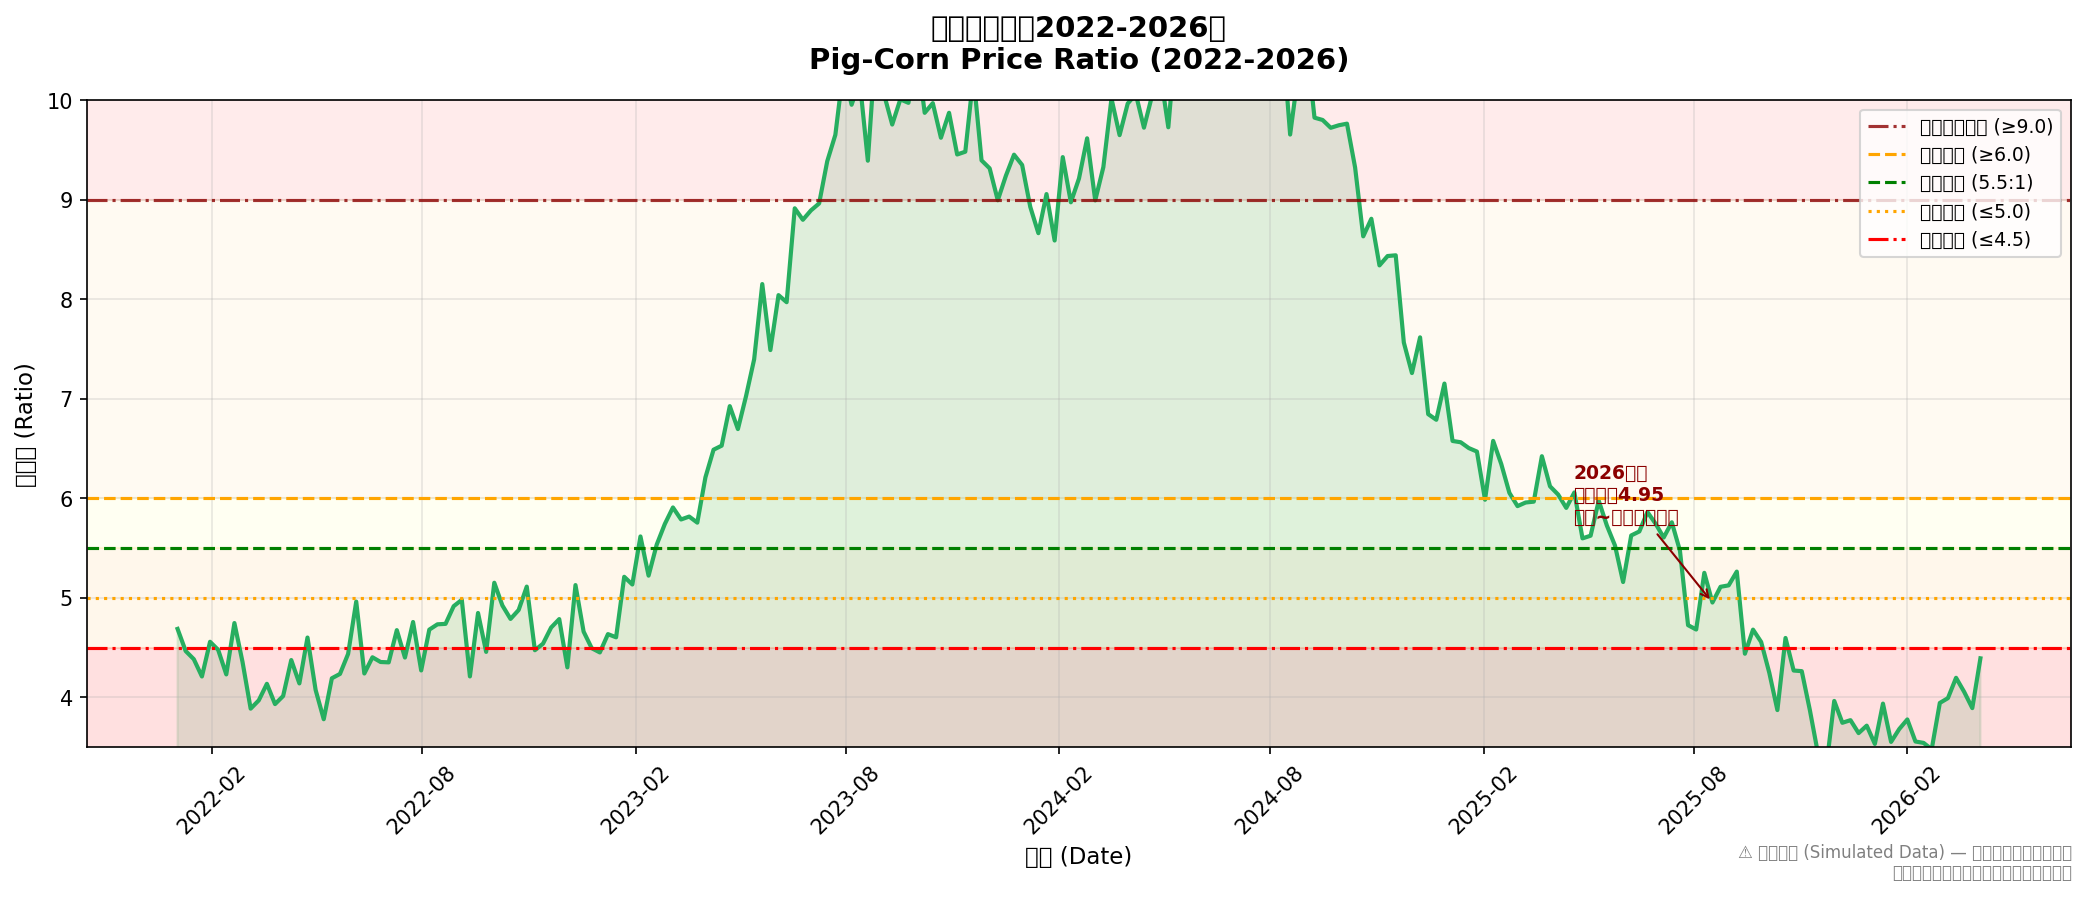
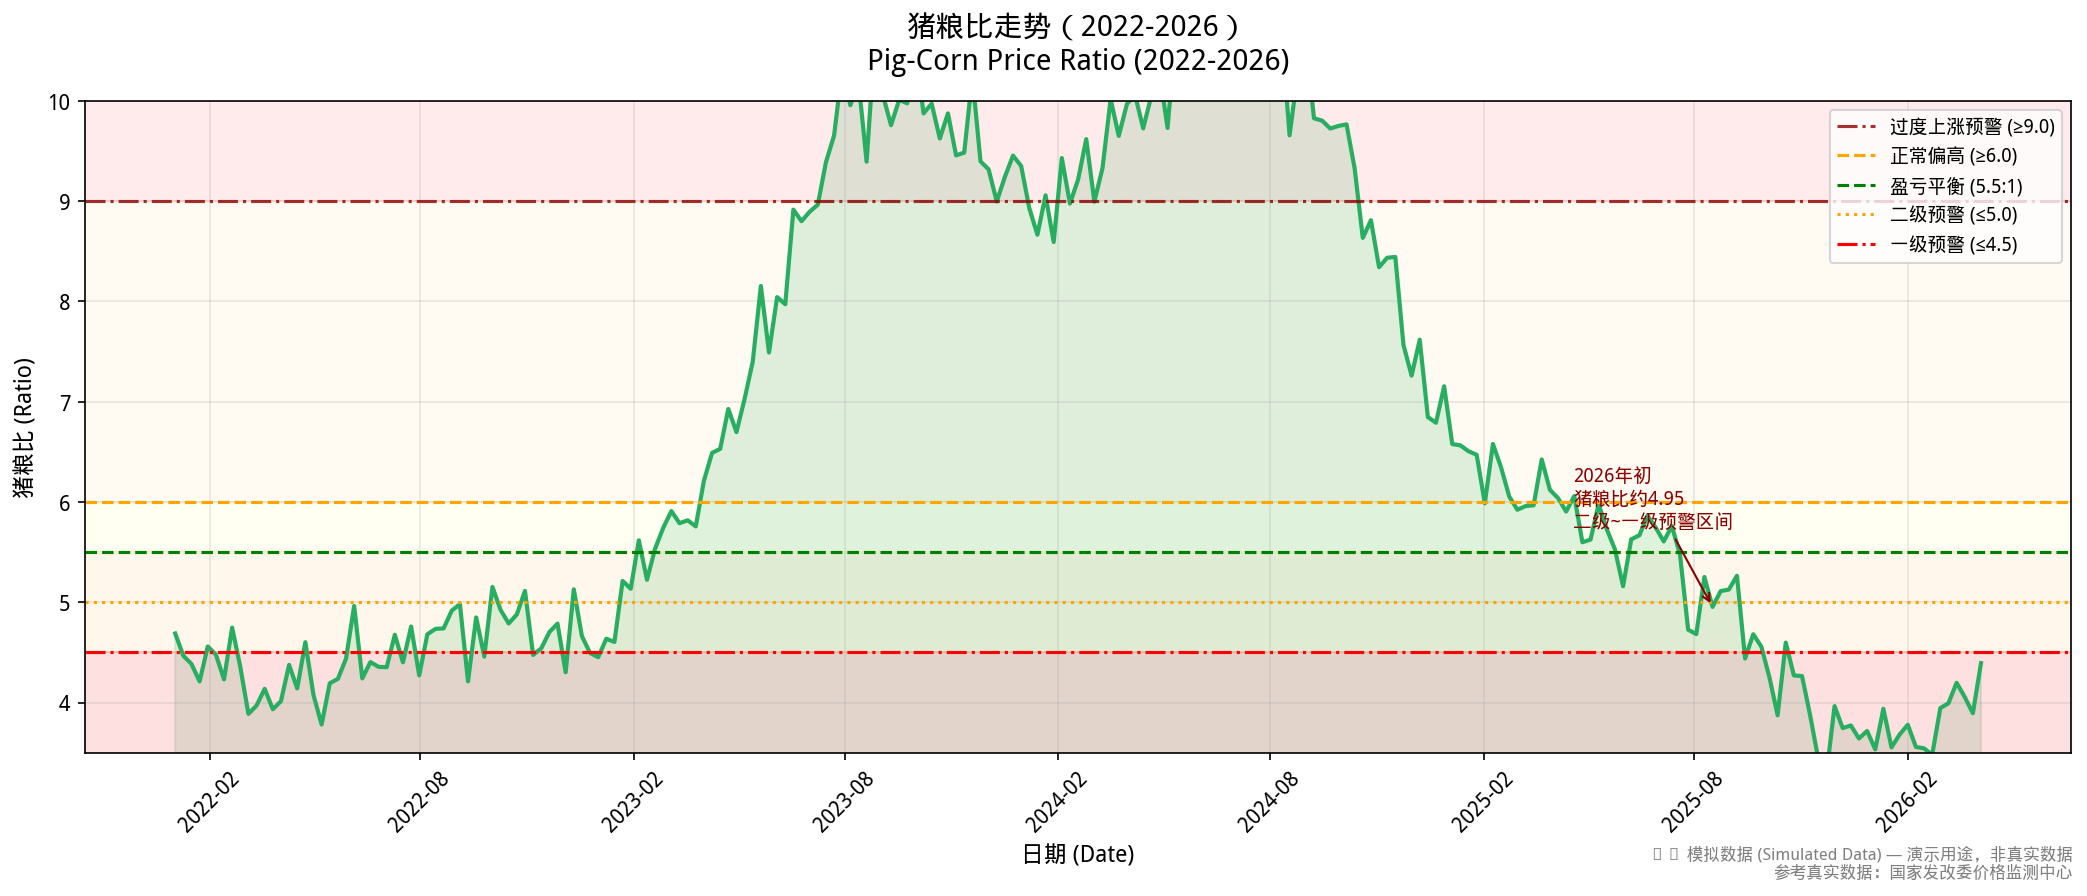
auto: 2026-04-06 21:30

diff --git a/research/05-量化投资/pig-cycle-demo.py b/research/05-量化投资/pig-cycle-demo.py
@@ -34,15 +34,12 @@ from datetime import datetime, timedelta
 OUTPUT_DIR = "/root/.openclaw/workspace/shared/results/05-量化投资/demo"
 os.makedirs(OUTPUT_DIR, exist_ok=True)
 
-# 中文字体设置（避免中文乱码）
-from matplotlib.font_manager import FontProperties
 import os
 
 # 中文字体配置
-_ZH_FONT_PATH = '/usr/share/fonts/truetype/wqy/wqy-microhei.ttc'
-_ZH_FONT = FontProperties(fname=_ZH_FONT_PATH) if os.path.exists(_ZH_FONT_PATH) else None
 
-matplotlib.rcParams['axes.unicode_minus'] = False
+matplotlib.rcParams['font.family'] = 'sans-serif'
+matplotlib.rcParams['font.sans-serif'] = ['WenQuanYi Micro Hei', 'WenQuanYi Zen Hei', 'SimHei']
 matplotlib.rcParams['axes.unicode_minus'] = False
 
 # 颜色主题
@@ -268,13 +265,13 @@ def plot_all_indicators_normalized(df, output_path):
     
     # 添加周期阶段文字标注
     ax.annotate('周期顶部\n(2022高点)', xy=(datetime(2022, 4, 1), 0.95),
-                fontsize=10, fontproperties=_ZH_FONT, ha='center', color='darkred',
+                fontsize=10, ha='center', color='darkred',
                 bbox=dict(boxstyle='round,pad=0.3', facecolor='white', alpha=0.7))
     ax.annotate('产能过剩\n猪价低迷', xy=(datetime(2024, 10, 1), 0.05),
-                fontsize=10, fontproperties=_ZH_FONT, ha='center', color='darkred',
+                fontsize=10, ha='center', color='darkred',
                 bbox=dict(boxstyle='round,pad=0.3', facecolor='white', alpha=0.7))
     ax.annotate('复苏初期', xy=(datetime(2026, 1, 15), 0.55),
-                fontsize=10, fontproperties=_ZH_FONT, ha='center', color='darkgreen',
+                fontsize=10, ha='center', color='darkgreen',
                 bbox=dict(boxstyle='round,pad=0.3', facecolor='white', alpha=0.7))
     
     # 标注领先/滞后关系箭头
@@ -282,14 +279,14 @@ def plot_all_indicators_normalized(df, output_path):
                 xytext=(datetime(2022, 8, 1), 0.85),
                 arrowprops=dict(arrowstyle='->', color='gray', lw=1.5))
     ax.text(datetime(2023, 1, 1), 0.87, '能繁母猪领先猪价约10个月', 
-            fontsize=9, fontproperties=_ZH_FONT, color='gray', ha='center')
+            fontsize=9, color='gray', ha='center')
     
     ax.set_title('全指标归一化叠加图（2022-2026）\nAll Indicators Normalized (Min-Max 0-1 Scale)',
-                 fontsize=14, fontproperties=_ZH_FONT, fontweight='bold', pad=15)
+                 fontsize=14, fontweight='bold', pad=15)
     ax.set_xlabel('日期 (Date)', fontsize=11)
     ax.set_ylabel('归一化值 Normalized Value (0-1)', fontsize=11)
     ax.set_ylim(-0.05, 1.1)
-    ax.legend(loc='upper right', fontsize=9, fontproperties=_ZH_FONT, ncol=2)
+    ax.legend(loc='upper right', fontsize=9, ncol=2)
     ax.grid(True, alpha=0.3)
     ax.xaxis.set_major_formatter(mdates.DateFormatter('%Y-%m'))
     ax.xaxis.set_major_locator(mdates.MonthLocator(interval=6))
@@ -297,7 +294,7 @@ def plot_all_indicators_normalized(df, output_path):
     
     # 数据来源标注
     fig.text(0.99, 0.01, '⚠ 模拟数据 (Simulated Data) — 演示用途，非真实数据', 
-             fontsize=8, fontproperties=_ZH_FONT, ha='right', va='bottom', color='gray')
+             fontsize=8, ha='right', va='bottom', color='gray')
     
     plt.tight_layout()
     plt.savefig(output_path, dpi=150, bbox_inches='tight')
@@ -325,7 +322,7 @@ def plot_pig_price(df, output_path):
                 xy=(dates.iloc[peak_idx], price[peak_idx]),
                 xytext=(dates.iloc[peak_idx] + timedelta(days=60), price[peak_idx] + 1.5),
                 arrowprops=dict(arrowstyle='->', color='darkred'),
-                fontsize=10, fontproperties=_ZH_FONT, color='darkred', fontweight='bold')
+                fontsize=10, color='darkred', fontweight='bold')
     
     # 标注2024年低点（约11元/kg）
     low_idx = np.argmin(price[len(price)//3:2*len(price)//3]) + len(price)//3
@@ -333,7 +330,7 @@ def plot_pig_price(df, output_path):
                 xy=(dates.iloc[low_idx], price[low_idx]),
                 xytext=(dates.iloc[low_idx] + timedelta(days=60), price[low_idx] - 2),
                 arrowprops=dict(arrowstyle='->', color='darkred'),
-                fontsize=10, fontproperties=_ZH_FONT, color='darkred', fontweight='bold')
+                fontsize=10, color='darkred', fontweight='bold')
     
     # 标注2026年初跌破10元
     late_idx = int(len(price) * 0.85)
@@ -341,7 +338,7 @@ def plot_pig_price(df, output_path):
                 xy=(dates.iloc[late_idx], price[late_idx]),
                 xytext=(dates.iloc[late_idx] + timedelta(days=30), price[late_idx] - 1.5),
                 arrowprops=dict(arrowstyle='->', color='darkred'),
-                fontsize=10, fontproperties=_ZH_FONT, color='darkred', fontweight='bold')
+                fontsize=10, color='darkred', fontweight='bold')
     
     # 成本线
     ax.axhline(y=12, color='gray', linestyle='--', linewidth=1.5, label='行业成本线 (~12元/kg)')
@@ -351,7 +348,7 @@ def plot_pig_price(df, output_path):
     ax.axhline(y=10, color='darkred', linestyle='-.', linewidth=1, alpha=0.7, label='心理关口 (10元/kg)')
     
     ax.set_title('外三元生猪价格走势（2022-2026）\nHog Price Trend (Waishan, CNY/kg)', 
-                 fontsize=14, fontproperties=_ZH_FONT, fontweight='bold', pad=15)
+                 fontsize=14, fontweight='bold', pad=15)
     ax.set_xlabel('日期 (Date)', fontsize=11)
     ax.set_ylabel('价格（元/kg）', fontsize=11)
     ax.legend(loc='upper right', fontsize=9)
@@ -362,7 +359,7 @@ def plot_pig_price(df, output_path):
     
     # 数据来源标注
     fig.text(0.99, 0.01, '⚠ 模拟数据 (Simulated Data) — 演示用途，非真实数据', 
-             fontsize=8, fontproperties=_ZH_FONT, ha='right', va='bottom', color='gray')
+             fontsize=8, ha='right', va='bottom', color='gray')
     
     plt.tight_layout()
     plt.savefig(output_path, dpi=150, bbox_inches='tight')
@@ -392,13 +389,13 @@ def plot_breeding_sow(df, output_path):
     
     # 标注文字
     ax.text(df['date'].iloc[-1] + timedelta(days=30), 3900, '3900万\n(正常保有量)', 
-            fontsize=9, fontproperties=_ZH_FONT, va='center', color='green', fontweight='bold')
+            fontsize=9, va='center', color='green', fontweight='bold')
     ax.text(df['date'].iloc[-1] + timedelta(days=30), 3600, '黄色区间\n下沿', 
-            fontsize=8, fontproperties=_ZH_FONT, va='center', color='darkorange')
+            fontsize=8, va='center', color='darkorange')
     ax.text(df['date'].iloc[-1] + timedelta(days=30), 4200, '黄色区间\n上沿', 
-            fontsize=8, fontproperties=_ZH_FONT, va='center', color='darkorange')
+            fontsize=8, va='center', color='darkorange')
     ax.text(df['date'].iloc[-1] + timedelta(days=30), 3300, '红色\n(强制调控)', 
-            fontsize=8, fontproperties=_ZH_FONT, va='center', color='darkred')
+            fontsize=8, va='center', color='darkred')
     
     # 标注高点（2022年约4400万头）
     sow = df['breeding_sow'].values
@@ -408,7 +405,7 @@ def plot_breeding_sow(df, output_path):
                 xy=(dates.iloc[peak_idx], sow[peak_idx]),
                 xytext=(dates.iloc[peak_idx] + timedelta(days=90), sow[peak_idx] + 100),
                 arrowprops=dict(arrowstyle='->', color='darkblue'),
-                fontsize=10, fontproperties=_ZH_FONT, color='darkblue', fontweight='bold')
+                fontsize=10, color='darkblue', fontweight='bold')
     
     # 标注2025年末约3961万头
     late_idx = int(len(sow) * 0.82)
@@ -416,10 +413,10 @@ def plot_breeding_sow(df, output_path):
                 xy=(dates.iloc[late_idx], sow[late_idx]),
                 xytext=(dates.iloc[late_idx] + timedelta(days=60), sow[late_idx] - 150),
                 arrowprops=dict(arrowstyle='->', color='darkblue'),
-                fontsize=9, fontproperties=_ZH_FONT, color='darkblue')
+                fontsize=9, color='darkblue')
     
     ax.set_title('能繁母猪存栏量走势（2022-2026）\nBreeding Sow Inventory (10,000 heads)', 
-                 fontsize=14, fontproperties=_ZH_FONT, fontweight='bold', pad=15)
+                 fontsize=14, fontweight='bold', pad=15)
     ax.set_xlabel('日期 (Date)', fontsize=11)
     ax.set_ylabel('存栏量（万头）', fontsize=11)
     ax.set_ylim(3100, 4700)
@@ -431,7 +428,7 @@ def plot_breeding_sow(df, output_path):
     
     # 数据来源标注
     fig.text(0.99, 0.01, '⚠ 模拟数据 (Simulated Data) — 演示用途，非真实数据\n参考真实数据：农业农村部月度数据', 
-             fontsize=8, fontproperties=_ZH_FONT, ha='right', va='bottom', color='gray')
+             fontsize=8, ha='right', va='bottom', color='gray')
     
     plt.tight_layout()
     plt.savefig(output_path, dpi=150, bbox_inches='tight')
@@ -470,10 +467,10 @@ def plot_pig_corn_ratio(df, output_path):
                 xy=(df['date'].iloc[late_idx], late_ratio),
                 xytext=(df['date'].iloc[late_idx] - timedelta(days=120), late_ratio + 0.8),
                 arrowprops=dict(arrowstyle='->', color='darkred'),
-                fontsize=9, fontproperties=_ZH_FONT, color='darkred', fontweight='bold')
+                fontsize=9, color='darkred', fontweight='bold')
     
     ax.set_title('猪粮比走势（2022-2026）\nPig-Corn Price Ratio (2022-2026)', 
-                 fontsize=14, fontproperties=_ZH_FONT, fontweight='bold', pad=15)
+                 fontsize=14, fontweight='bold', pad=15)
     ax.set_xlabel('日期 (Date)', fontsize=11)
     ax.set_ylabel('猪粮比 (Ratio)', fontsize=11)
     ax.set_ylim(3.5, 10)
@@ -485,7 +482,7 @@ def plot_pig_corn_ratio(df, output_path):
     
     # 数据来源标注
     fig.text(0.99, 0.01, '⚠ 模拟数据 (Simulated Data) — 演示用途，非真实数据\n参考真实数据：国家发改委价格监测中心', 
-             fontsize=8, fontproperties=_ZH_FONT, ha='right', va='bottom', color='gray')
+             fontsize=8, ha='right', va='bottom', color='gray')
     
     plt.tight_layout()
     plt.savefig(output_path, dpi=150, bbox_inches='tight')
@@ -586,7 +583,7 @@ def plot_cycle_dashboard(df, output_path):
     
     # ---- 主标题区 ----
     fig.suptitle('🐷 猪周期仪表盘\nPig Cycle Dashboard — 2026年4月', 
-                 fontsize=18, fontproperties=_ZH_FONT, fontweight='bold', y=0.98)
+                 fontsize=18, fontweight='bold', y=0.98)
     
     # ---- 左上：综合评分仪表 ----
     ax_gauge = fig.add_subplot(2, 3, 1, projection='polar')
@@ -614,15 +611,15 @@ def plot_cycle_dashboard(df, output_path):
     ax_gauge.set_ylim(0, 1.2)
     
     # 中心分数文字
-    ax_gauge.text(np.pi/2, 0.3, f'{overall_score:.0f}', fontsize=36, fontproperties=_ZH_FONT, fontweight='bold', 
+    ax_gauge.text(np.pi/2, 0.3, f'{overall_score:.0f}', fontsize=36, fontweight='bold', 
                   ha='center', va='center', color=color)
-    ax_gauge.text(np.pi/2, 0.0, '/100', fontsize=14, fontproperties=_ZH_FONT, ha='center', va='center', color='gray')
-    ax_gauge.text(np.pi/2, -0.15, '周期综合评分', fontsize=10, fontproperties=_ZH_FONT, ha='center', va='center', color='gray')
+    ax_gauge.text(np.pi/2, 0.0, '/100', fontsize=14, ha='center', va='center', color='gray')
+    ax_gauge.text(np.pi/2, -0.15, '周期综合评分', fontsize=10, ha='center', va='center', color='gray')
     
     # 阶段文字
-    ax_gauge.annotate(phase, xy=(np.pi * 0.7, 0.7), fontsize=11, fontproperties=_ZH_FONT, fontweight='bold',
+    ax_gauge.annotate(phase, xy=(np.pi * 0.7, 0.7), fontsize=11, fontweight='bold',
                       color='darkblue', ha='center')
-    ax_gauge.set_title('综合评分', fontsize=12, fontproperties=_ZH_FONT, fontweight='bold', pad=10)
+    ax_gauge.set_title('综合评分', fontsize=12, fontweight='bold', pad=10)
     
     # ---- 右上：投资建议卡片 ----
     ax_advice = fig.add_subplot(2, 3, 2)
@@ -635,23 +632,23 @@ def plot_cycle_dashboard(df, output_path):
                                   alpha=0.8, edgecolor=rec_color, linewidth=3)
     ax_advice.add_patch(advice_box)
     ax_advice.text(0.5, 0.78, f'📋 投资建议: {recommendation}', 
-                   fontsize=14, fontproperties=_ZH_FONT, fontweight='bold', ha='center', va='center',
+                   fontsize=14, fontweight='bold', ha='center', va='center',
                    color=rec_color)
     ax_advice.text(0.5, 0.58, rec_reason, 
-                   fontsize=10, fontproperties=_ZH_FONT, ha='center', va='center', color='black', wrap=True)
+                   fontsize=10, ha='center', va='center', color='black', wrap=True)
     
     # 理由说明
-    ax_advice.text(0.5, 0.35, '━' * 30, fontsize=8, fontproperties=_ZH_FONT, ha='center', color='gray')
+    ax_advice.text(0.5, 0.35, '━' * 30, fontsize=8, ha='center', color='gray')
     ax_advice.text(0.5, 0.25, f'📊 猪价: {latest_pig_price:.2f} 元/kg ({"深度亏损" if latest_pig_price < 12 else "低位"})', 
-                   fontsize=10, fontproperties=_ZH_FONT, ha='center', va='center')
+                   fontsize=10, ha='center', va='center')
     ax_advice.text(0.5, 0.15, f'🐷 能繁母猪: {latest_sow:.0f} 万头 ({"正常保有量上沿" if latest_sow > 3900 else "正常区间"})', 
-                   fontsize=10, fontproperties=_ZH_FONT, ha='center', va='center')
+                   fontsize=10, ha='center', va='center')
     ax_advice.text(0.5, 0.05, f'📉 猪粮比: {latest_ratio:.2f} ({"一级预警" if latest_ratio < 4.5 else "二级预警" if latest_ratio < 5.0 else "正常"})', 
-                   fontsize=10, fontproperties=_ZH_FONT, ha='center', va='center')
+                   fontsize=10, ha='center', va='center')
     
     ax_advice.set_xlim(0, 1)
     ax_advice.set_ylim(0, 1)
-    ax_advice.set_title('投资建议', fontsize=12, fontproperties=_ZH_FONT, fontweight='bold', pad=10)
+    ax_advice.set_title('投资建议', fontsize=12, fontweight='bold', pad=10)
     
     # ---- 右：子指标评分条形图 ----
     ax_sub = fig.add_subplot(2, 3, 3)
@@ -662,15 +659,15 @@ def plot_cycle_dashboard(df, output_path):
     bars = ax_sub.barh(indicators, sub_scores, color=bar_colors, alpha=0.7, edgecolor='black')
     ax_sub.set_xlim(0, 100)
     ax_sub.set_xlabel('评分 (0-100)', fontsize=10)
-    ax_sub.set_title('子指标评分', fontsize=12, fontproperties=_ZH_FONT, fontweight='bold', pad=10)
+    ax_sub.set_title('子指标评分', fontsize=12, fontweight='bold', pad=10)
     
     # 添加数值标签
     for bar, score in zip(bars, sub_scores):
         ax_sub.text(bar.get_width() + 2, bar.get_y() + bar.get_height()/2, 
-                    f'{score:.0f}', va='center', fontsize=10, fontproperties=_ZH_FONT, fontweight='bold')
+                    f'{score:.0f}', va='center', fontsize=10, fontweight='bold')
     
     ax_sub.axvline(x=50, color='gray', linestyle='--', linewidth=1, alpha=0.7)
-    ax_sub.text(52, 0, '机会线', fontsize=8, fontproperties=_ZH_FONT, color='gray')
+    ax_sub.text(52, 0, '机会线', fontsize=8, color='gray')
     ax_sub.grid(True, axis='x', alpha=0.3)
     
     # ---- 下左：猪价走势图（带阶段标注）----
@@ -686,9 +683,9 @@ def plot_cycle_dashboard(df, output_path):
                       xy=(df['date'].iloc[-1], latest_pig_price),
                       xytext=(df['date'].iloc[-1] - timedelta(days=120), latest_pig_price + 1.5),
                       arrowprops=dict(arrowstyle='->', color='red'),
-                      fontsize=9, fontproperties=_ZH_FONT, color='red', fontweight='bold')
+                      fontsize=9, color='red', fontweight='bold')
     
-    ax_price.set_title('猪价走势', fontsize=11, fontproperties=_ZH_FONT, fontweight='bold')
+    ax_price.set_title('猪价走势', fontsize=11, fontweight='bold')
     ax_price.set_xlabel('日期', fontsize=9)
     ax_price.set_ylabel('元/kg', fontsize=9)
     ax_price.xaxis.set_major_formatter(mdates.DateFormatter('%Y-%m'))
@@ -707,9 +704,9 @@ def plot_cycle_dashboard(df, output_path):
                     xy=(df['date'].iloc[-1], latest_sow),
                     xytext=(df['date'].iloc[-1] - timedelta(days=120), latest_sow + 200),
                     arrowprops=dict(arrowstyle='->', color='red'),
-                    fontsize=9, fontproperties=_ZH_FONT, color='red', fontweight='bold')
+                    fontsize=9, color='red', fontweight='bold')
     
-    ax_sow.set_title('能繁母猪存栏', fontsize=11, fontproperties=_ZH_FONT, fontweight='bold')
+    ax_sow.set_title('能繁母猪存栏', fontsize=11, fontweight='bold')
     ax_sow.set_xlabel('日期', fontsize=9)
     ax_sow.set_ylabel('万头', fontsize=9)
     ax_sow.xaxis.set_major_formatter(mdates.DateFormatter('%Y-%m'))
@@ -734,9 +731,9 @@ def plot_cycle_dashboard(df, output_path):
                        xytext=(df['date'].iloc[-1] - timedelta(days=120), 
                                latest_profit + 200 if latest_profit < 0 else latest_profit - 200),
                        arrowprops=dict(arrowstyle='->', color='red'),
-                       fontsize=9, fontproperties=_ZH_FONT, color='red', fontweight='bold')
+                       fontsize=9, color='red', fontweight='bold')
     
-    ax_profit.set_title('自繁自养利润', fontsize=11, fontproperties=_ZH_FONT, fontweight='bold')
+    ax_profit.set_title('自繁自养利润', fontsize=11, fontweight='bold')
     ax_profit.set_xlabel('日期', fontsize=9)
     ax_profit.set_ylabel('元/头', fontsize=9)
     ax_profit.xaxis.set_major_formatter(mdates.DateFormatter('%Y-%m'))
@@ -749,7 +746,7 @@ def plot_cycle_dashboard(df, output_path):
     fig.text(0.5, 0.01, 
              '⚠ 本仪表盘基于模拟数据生成，仅供演示参考，不构成投资建议。\n'
              '投资决策需结合真实数据和个人风险承受能力。',
-             fontsize=8, fontproperties=_ZH_FONT, ha='center', va='bottom', color='gray', style='italic')
+             fontsize=8, ha='center', va='bottom', color='gray', style='italic')
     
     plt.tight_layout(rect=[0, 0.03, 1, 0.95])
     plt.savefig(output_path, dpi=150, bbox_inches='tight')
@@ -768,7 +765,7 @@ def plot_target_stocks(stock_df, output_path):
     ax1 = axes[0, 0]
     ax1.plot(stock_df['date'], stock_df['muyuan'], color='#E74C3C', linewidth=2, label='牧原股份')
     ax1.set_title('牧原股份 (002714)\n行业龙头，成本最低 (~12元/kg)', 
-                  fontsize=11, fontproperties=_ZH_FONT, fontweight='bold', color='#E74C3C')
+                  fontsize=11, fontweight='bold', color='#E74C3C')
     ax1.set_ylabel('股价（元）', fontsize=10)
     ax1.grid(True, alpha=0.3)
     ax1.xaxis.set_major_formatter(mdates.DateFormatter('%Y-%m'))
@@ -782,13 +779,13 @@ def plot_target_stocks(stock_df, output_path):
                  xy=(stock_df['date'].iloc[-1], latest),
                  xytext=(stock_df['date'].iloc[-1] - timedelta(days=180), latest + 8),
                  arrowprops=dict(arrowstyle='->', color='darkred'),
-                 fontsize=9, fontproperties=_ZH_FONT, color='darkred', fontweight='bold')
+                 fontsize=9, color='darkred', fontweight='bold')
     
     # ---- 右上：温氏股份 ----
     ax2 = axes[0, 1]
     ax2.plot(stock_df['date'], stock_df['wenshi'], color='#3498DB', linewidth=2, label='温氏股份')
     ax2.set_title('温氏股份 (300498)\n第二大养殖企业，2025年净利52亿', 
-                  fontsize=11, fontproperties=_ZH_FONT, fontweight='bold', color='#3498DB')
+                  fontsize=11, fontweight='bold', color='#3498DB')
     ax2.set_ylabel('股价（元）', fontsize=10)
     ax2.grid(True, alpha=0.3)
     ax2.xaxis.set_major_formatter(mdates.DateFormatter('%Y-%m'))
@@ -801,7 +798,7 @@ def plot_target_stocks(stock_df, output_path):
                  xy=(stock_df['date'].iloc[-1], latest_w),
                  xytext=(stock_df['date'].iloc[-1] - timedelta(days=180), latest_w + 3),
                  arrowprops=dict(arrowstyle='->', color='darkblue'),
-                 fontsize=9, fontproperties=_ZH_FONT, color='darkblue', fontweight='bold')
+                 fontsize=9, color='darkblue', fontweight='bold')
     
     # ---- 左下：ETF走势 ----
     ax3 = axes[1, 0]
@@ -810,7 +807,7 @@ def plot_target_stocks(stock_df, output_path):
     ax3.plot(stock_df['date'], stock_df['breed_etf'], 
              color='#E67E22', linewidth=2, label='养殖ETF (159865)', alpha=0.8)
     ax3.set_title('畜牧/养殖 ETF 走势\n分散投资，获取行业Beta', 
-                  fontsize=11, fontproperties=_ZH_FONT, fontweight='bold', color='#8E44AD')
+                  fontsize=11, fontweight='bold', color='#8E44AD')
     ax3.set_ylabel('价格（元）', fontsize=10)
     ax3.legend(fontsize=9)
     ax3.grid(True, alpha=0.3)
@@ -832,7 +829,7 @@ def plot_target_stocks(stock_df, output_path):
     
     ax4.axhline(y=100, color='black', linestyle=':', linewidth=1, alpha=0.5)
     ax4.set_title('相对表现对比（起始=100）\n生猪养殖 vs 沪深300', 
-                  fontsize=11, fontproperties=_ZH_FONT, fontweight='bold')
+                  fontsize=11, fontweight='bold')
     ax4.set_ylabel('相对点位', fontsize=10)
     ax4.legend(fontsize=9)
     ax4.grid(True, alpha=0.3)
@@ -842,7 +839,7 @@ def plot_target_stocks(stock_df, output_path):
     
     # ---- 总标题 ----
     fig.suptitle('🐷 生猪产业链投资标的走势（2022-2026）\nInvestment Targets: Hog Industry Chain Stocks & ETFs',
-                 fontsize=14, fontproperties=_ZH_FONT, fontweight='bold', y=1.02)
+                 fontsize=14, fontweight='bold', y=1.02)
     
     # ---- 数据表格 ----
     table_data = [
@@ -873,13 +870,13 @@ def plot_target_stocks(stock_df, output_path):
     table.auto_set_font_size(False)
     table.set_fontsize(9)
     table.scale(1, 1.5)
-    ax_table.set_title('投资标的一览（2026-04-06）', fontsize=11, fontproperties=_ZH_FONT, fontweight='bold', pad=20)
+    ax_table.set_title('投资标的一览（2026-04-06）', fontsize=11, fontweight='bold', pad=20)
     
     # 数据来源标注
     fig.text(0.99, 0.01, 
              '⚠ 模拟数据 (Simulated Data) — 演示用途，非真实数据\n'
              '真实数据来源：Wind/AKShare股票行情接口、交易所公告',
-             fontsize=8, fontproperties=_ZH_FONT, ha='right', va='bottom', color='gray')
+             fontsize=8, ha='right', va='bottom', color='gray')
     
     plt.tight_layout(rect=[0, 0.05, 1, 0.97])
     plt.savefig(output_path, dpi=150, bbox_inches='tight')
